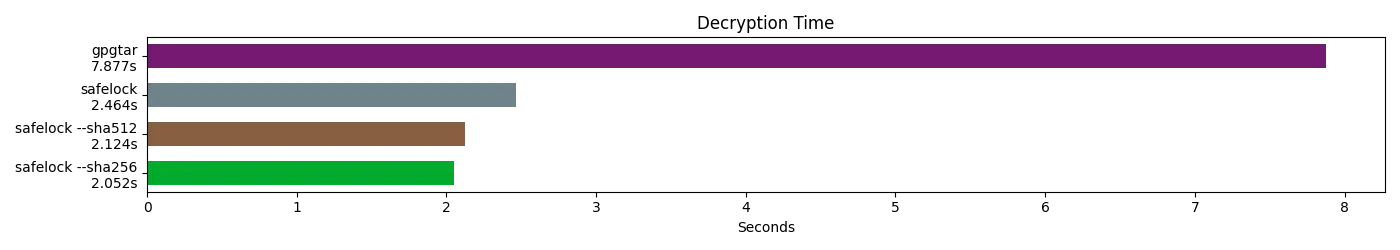
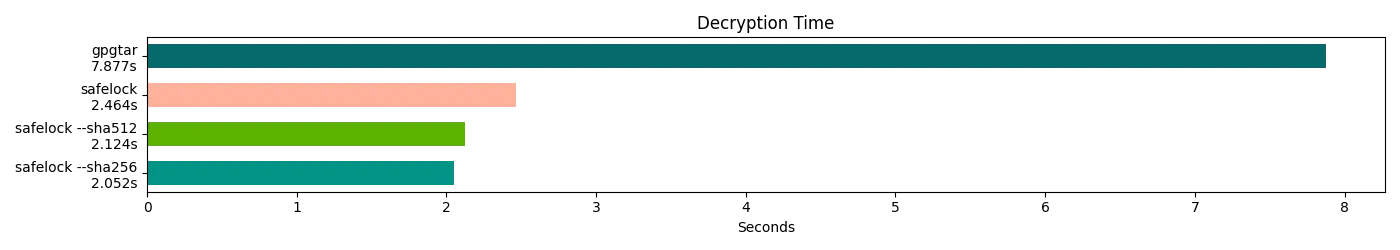
chore: fix plots color and links

diff --git a/benchmark/bench_and_plot.py b/benchmark/bench_and_plot.py
@@ -3,7 +3,7 @@ import json
 import random
 
 import matplotlib.pyplot as plt
-from matplotlib.colors import XKCD_COLORS as colors_map
+from matplotlib.colors import XKCD_COLORS as plot_colors
 
 safelock_cmd = "safelock-cli"
 pwd = "123456789"
@@ -46,7 +46,7 @@ def decrypt():
     if err:
         exit(err)
 
-def get_label(i):
+def get_label(i, clean=False):
     label = i['command']
 
     if 'gpg' in label:
@@ -58,39 +58,43 @@ def get_label(i):
     else:
         label = 'safelock'
 
+    if clean:
+        return label
+
     return f"{label}\n{i['median']:.3f}s"
 
-os.chdir(os.path.expanduser("~"))
-encrypt()
-decrypt()
+# os.chdir(os.path.expanduser("~"))
+# encrypt()
+# decrypt()
 os.chdir(root)
 
 with open("encryption.json") as f:
     data = sorted(json.load(f)['results'], key=lambda i: i['median'])
-    commands = [get_label(i) for i in data]
+    labels = [get_label(i) for i in data]
     scores = [i['median'] for i in data]
-
-colors = [random.choice(list(colors_map.values())) for _ in scores]
+    colors_map = {get_label(i, 1): random.choice(list(plot_colors.values())) for i in data}
+    colors = [colors_map[get_label(i, 1)] for i in data]
 
 plt.margins(3.5)
 
 fig, ax = plt.subplots()
 ax.set_title('Encryption Time')
 ax.set_xlabel(measure)
-ax.barh(commands, scores, bar_width, color=colors)
+ax.barh(labels, scores, bar_width, color=colors)
 fig.set_size_inches(w=figure_width, h=figure_height)
 fig.tight_layout()
 fig.savefig("encryption-time.webp", transparent=True, format="webp")
 
 with open("decryption.json") as f:
     data = sorted(json.load(f)['results'], key=lambda i: i['median'])
-    commands = [get_label(i) for i in data]
+    labels = [get_label(i) for i in data]
     decryption = [i['median'] for i in data]
+    colors = [colors_map[get_label(i, 1)] for i in data]
 
 fig, ax = plt.subplots()
 ax.set_title('Decryption Time')
 ax.set_xlabel(measure)
-ax.barh(commands, decryption, bar_width, color=colors)
+ax.barh(labels, decryption, bar_width, color=colors)
 fig.set_size_inches(w=figure_width, h=figure_height)
 fig.tight_layout()
 fig.savefig("decryption-time.webp", transparent=True, format="webp")

diff --git a/README.md b/README.md
@@ -56,8 +56,12 @@ With the default settings it should be about **19.1** times faster than `gpgtar`
 > You can reproduce the results by running [bench_and_plot.py](benchmark/bench_and_plot.py) (based on [matplotlib](https://github.com/matplotlib/matplotlib) and [hyperfine](https://github.com/sharkdp/hyperfine))
 
 <p align="center">
-  <img src="benchmark/encryption-time.webp" align="center" alt="encryption time" />
-  <img src="benchmark/decryption-time.webp" align="center" alt="encryption time" />
+  <a href="https://raw.githubusercontent.com/mrf345/safelock-cli/master/benchmark/encryption-time.webp" target="_blank">
+    <img src="benchmark/encryption-time.webp" align="center" alt="encryption time" />
+  </a>
+  <a href="https://raw.githubusercontent.com/mrf345/safelock-cli/master/benchmark/decryption-time.webp" target="_blank">
+    <img src="benchmark/decryption-time.webp" align="center" alt="encryption time" />
+  </a>
 </p>
 
 And you could gain a slight file size reduction
